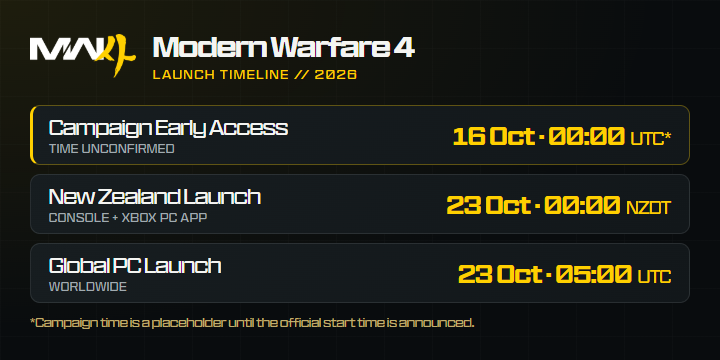
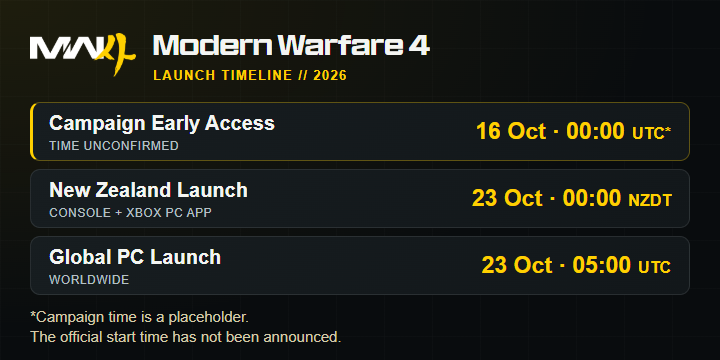
fix: improve launch timeline graphic readability.

diff --git a/index.html b/index.html
@@ -11,7 +11,7 @@
   <meta property="og:title" content="Modern Warfare 4 — Launch Clock" />
   <meta property="og:type" content="website" />
   <meta property="og:url" content="https://mw4.mxr.lol" />
-  <meta property="og:image" content="https://mw4.mxr.lol/launch-timeline.png" />
+  <meta property="og:image" content="https://mw4.mxr.lol/launch-timeline.png?v=2" />
   <meta property="og:image:type" content="image/png" />
   <meta property="og:image:width" content="720" />
   <meta property="og:image:height" content="360" />
@@ -32,7 +32,7 @@
             "type": 12,
             "items": [
               {
-                "media": { "url": "https://mw4.mxr.lol/launch-timeline.png" },
+                "media": { "url": "https://mw4.mxr.lol/launch-timeline.png?v=2" },
                 "description": "2026 launch times: Campaign Early Access — 16 Oct, 00:00 UTC (placeholder); New Zealand — 23 Oct, 00:00 NZDT; Global PC — 23 Oct, 05:00 UTC."
               }
             ]
